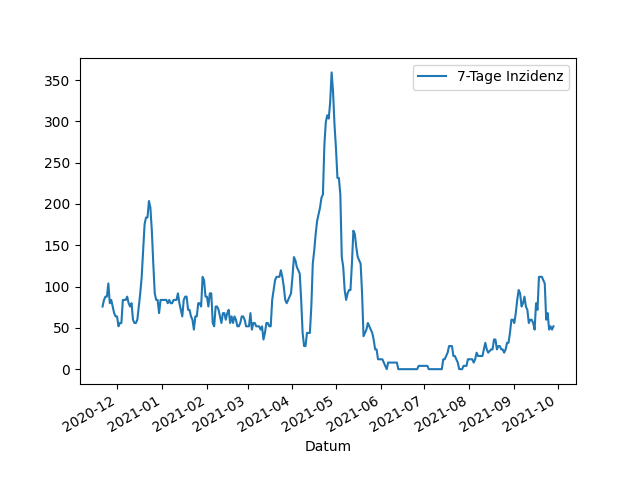
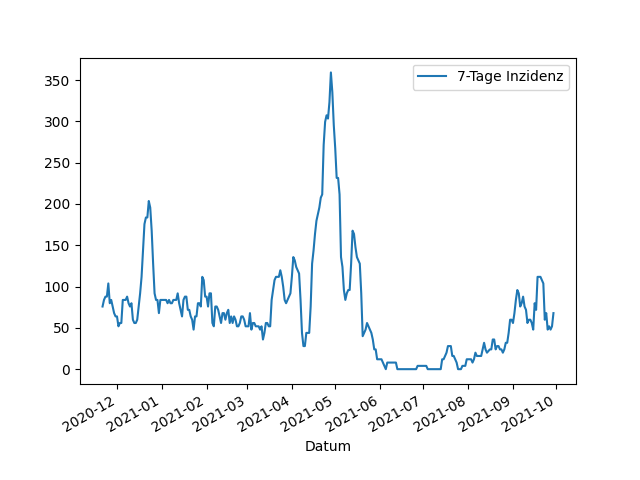
Update images

diff --git a/_includes/aktuelle_inzidenz.md b/_includes/aktuelle_inzidenz.md
@@ -1,1 +1,1 @@
-51,9
+67,9
